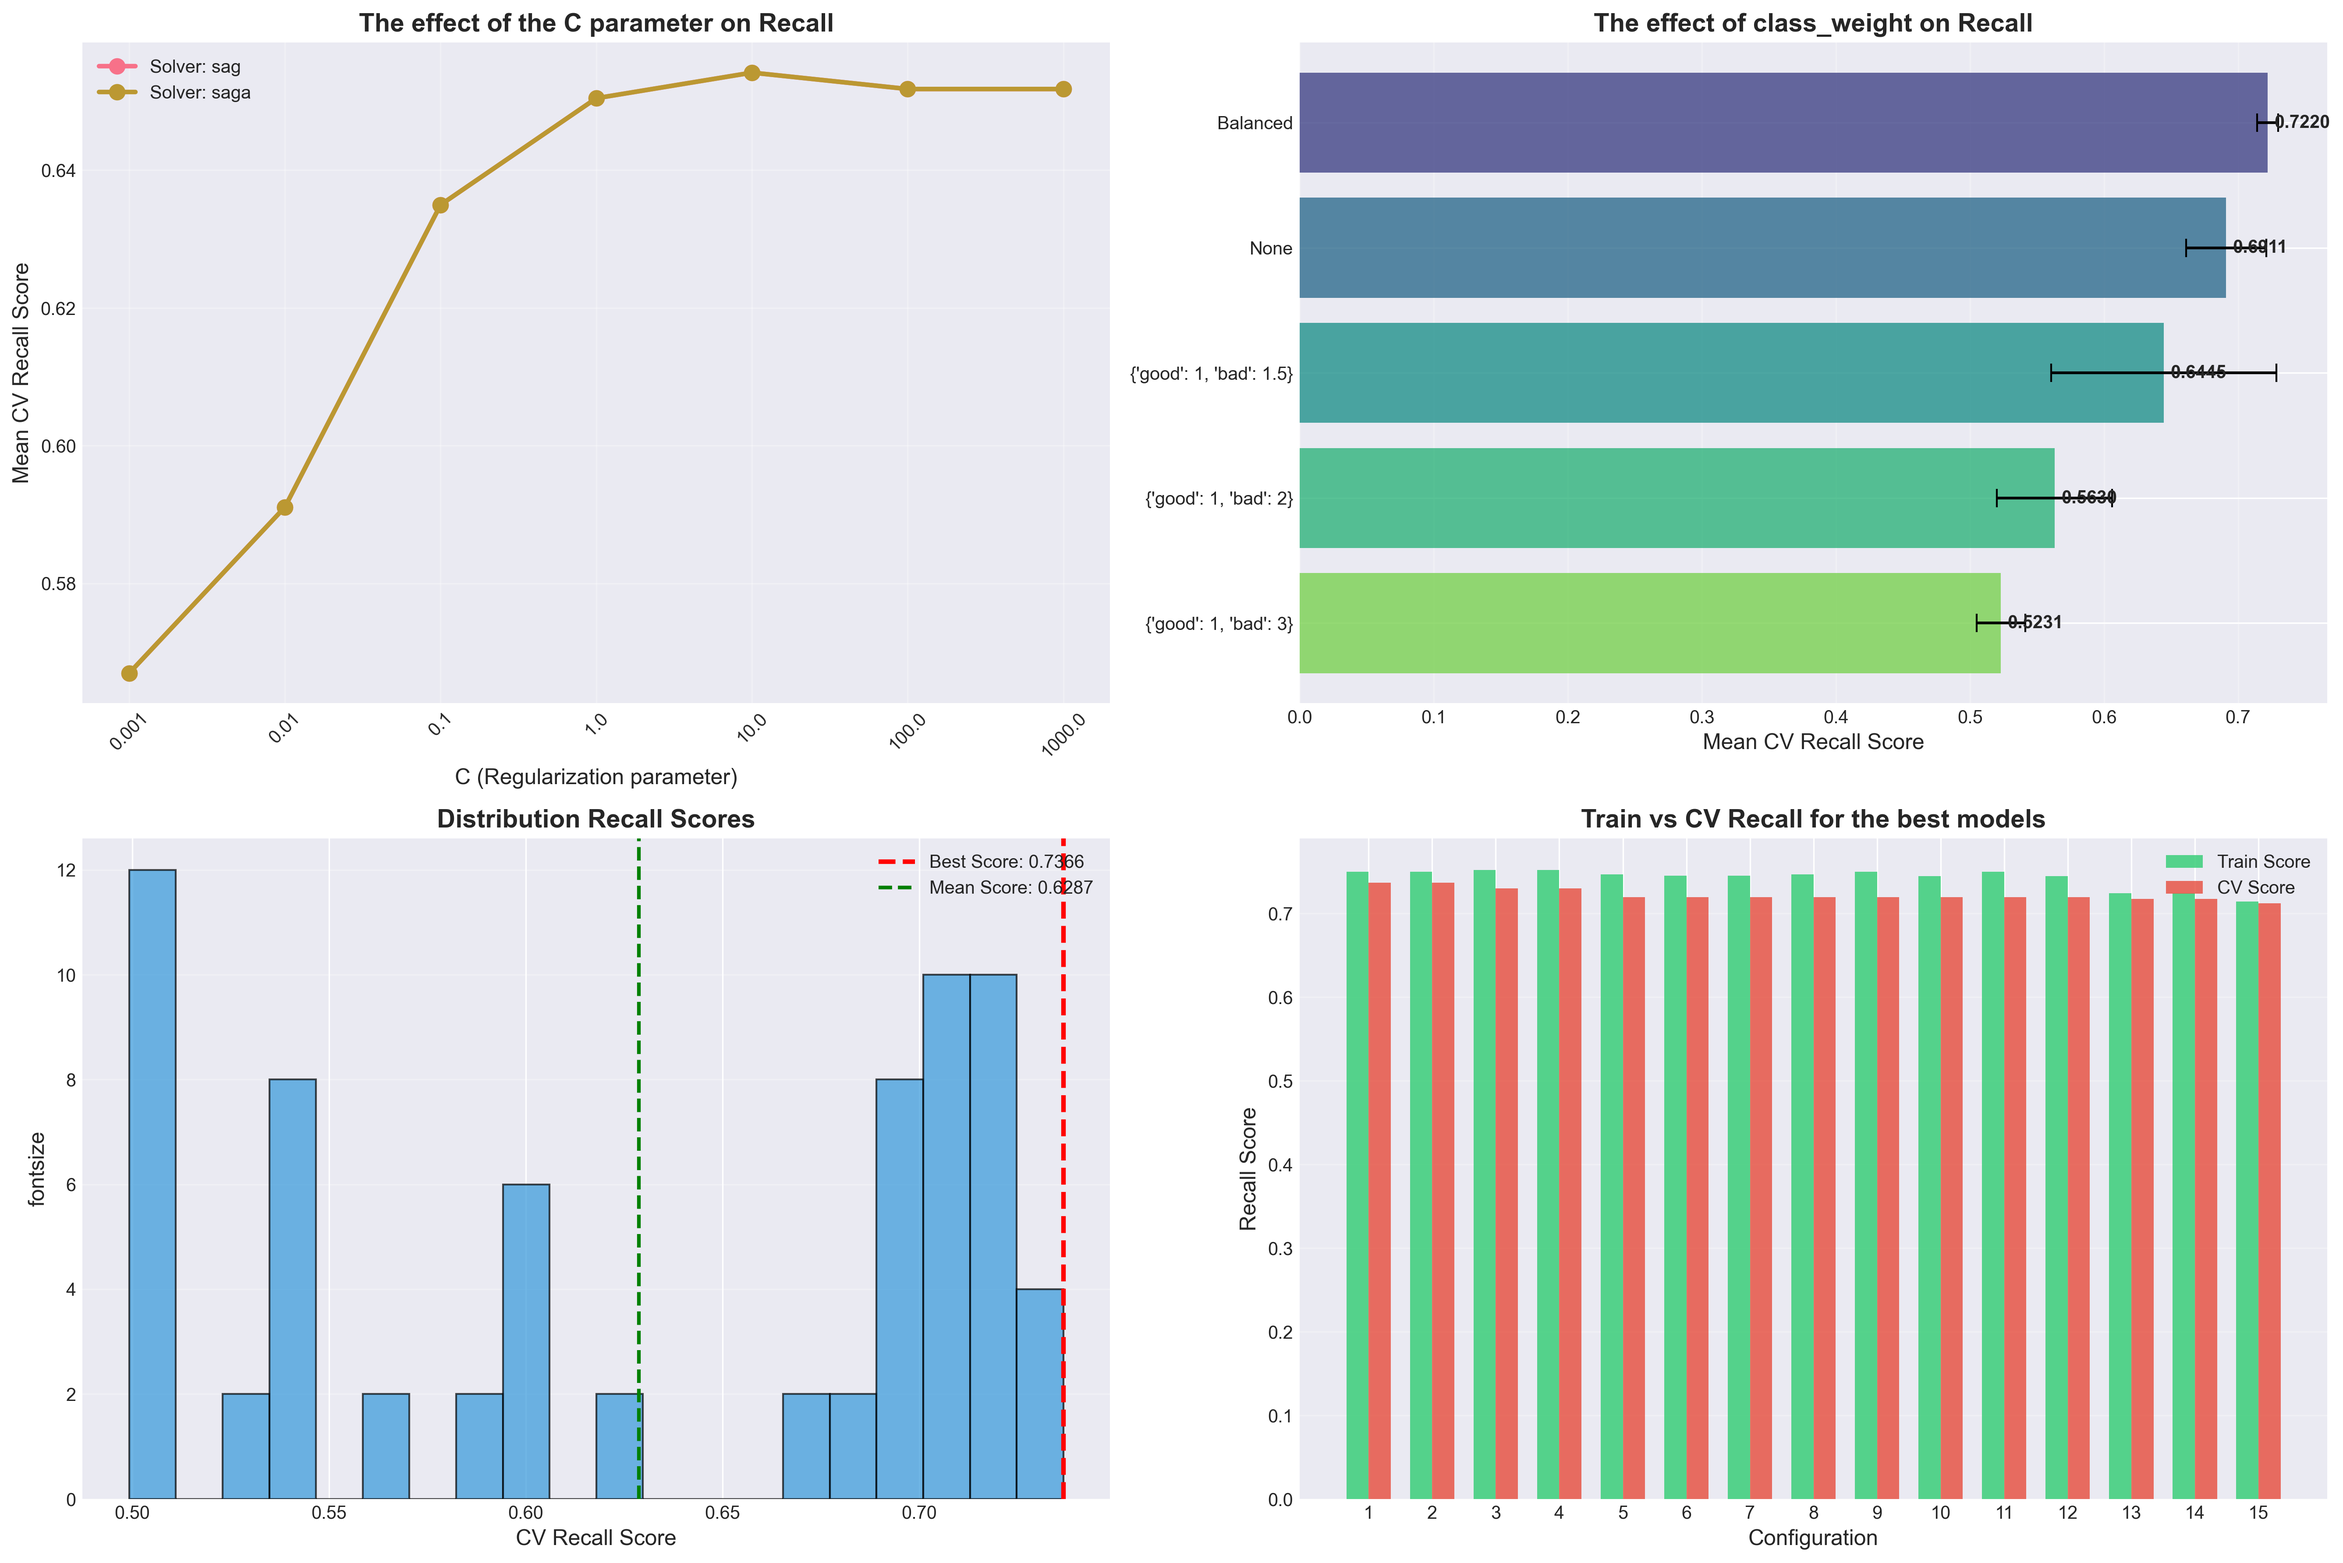
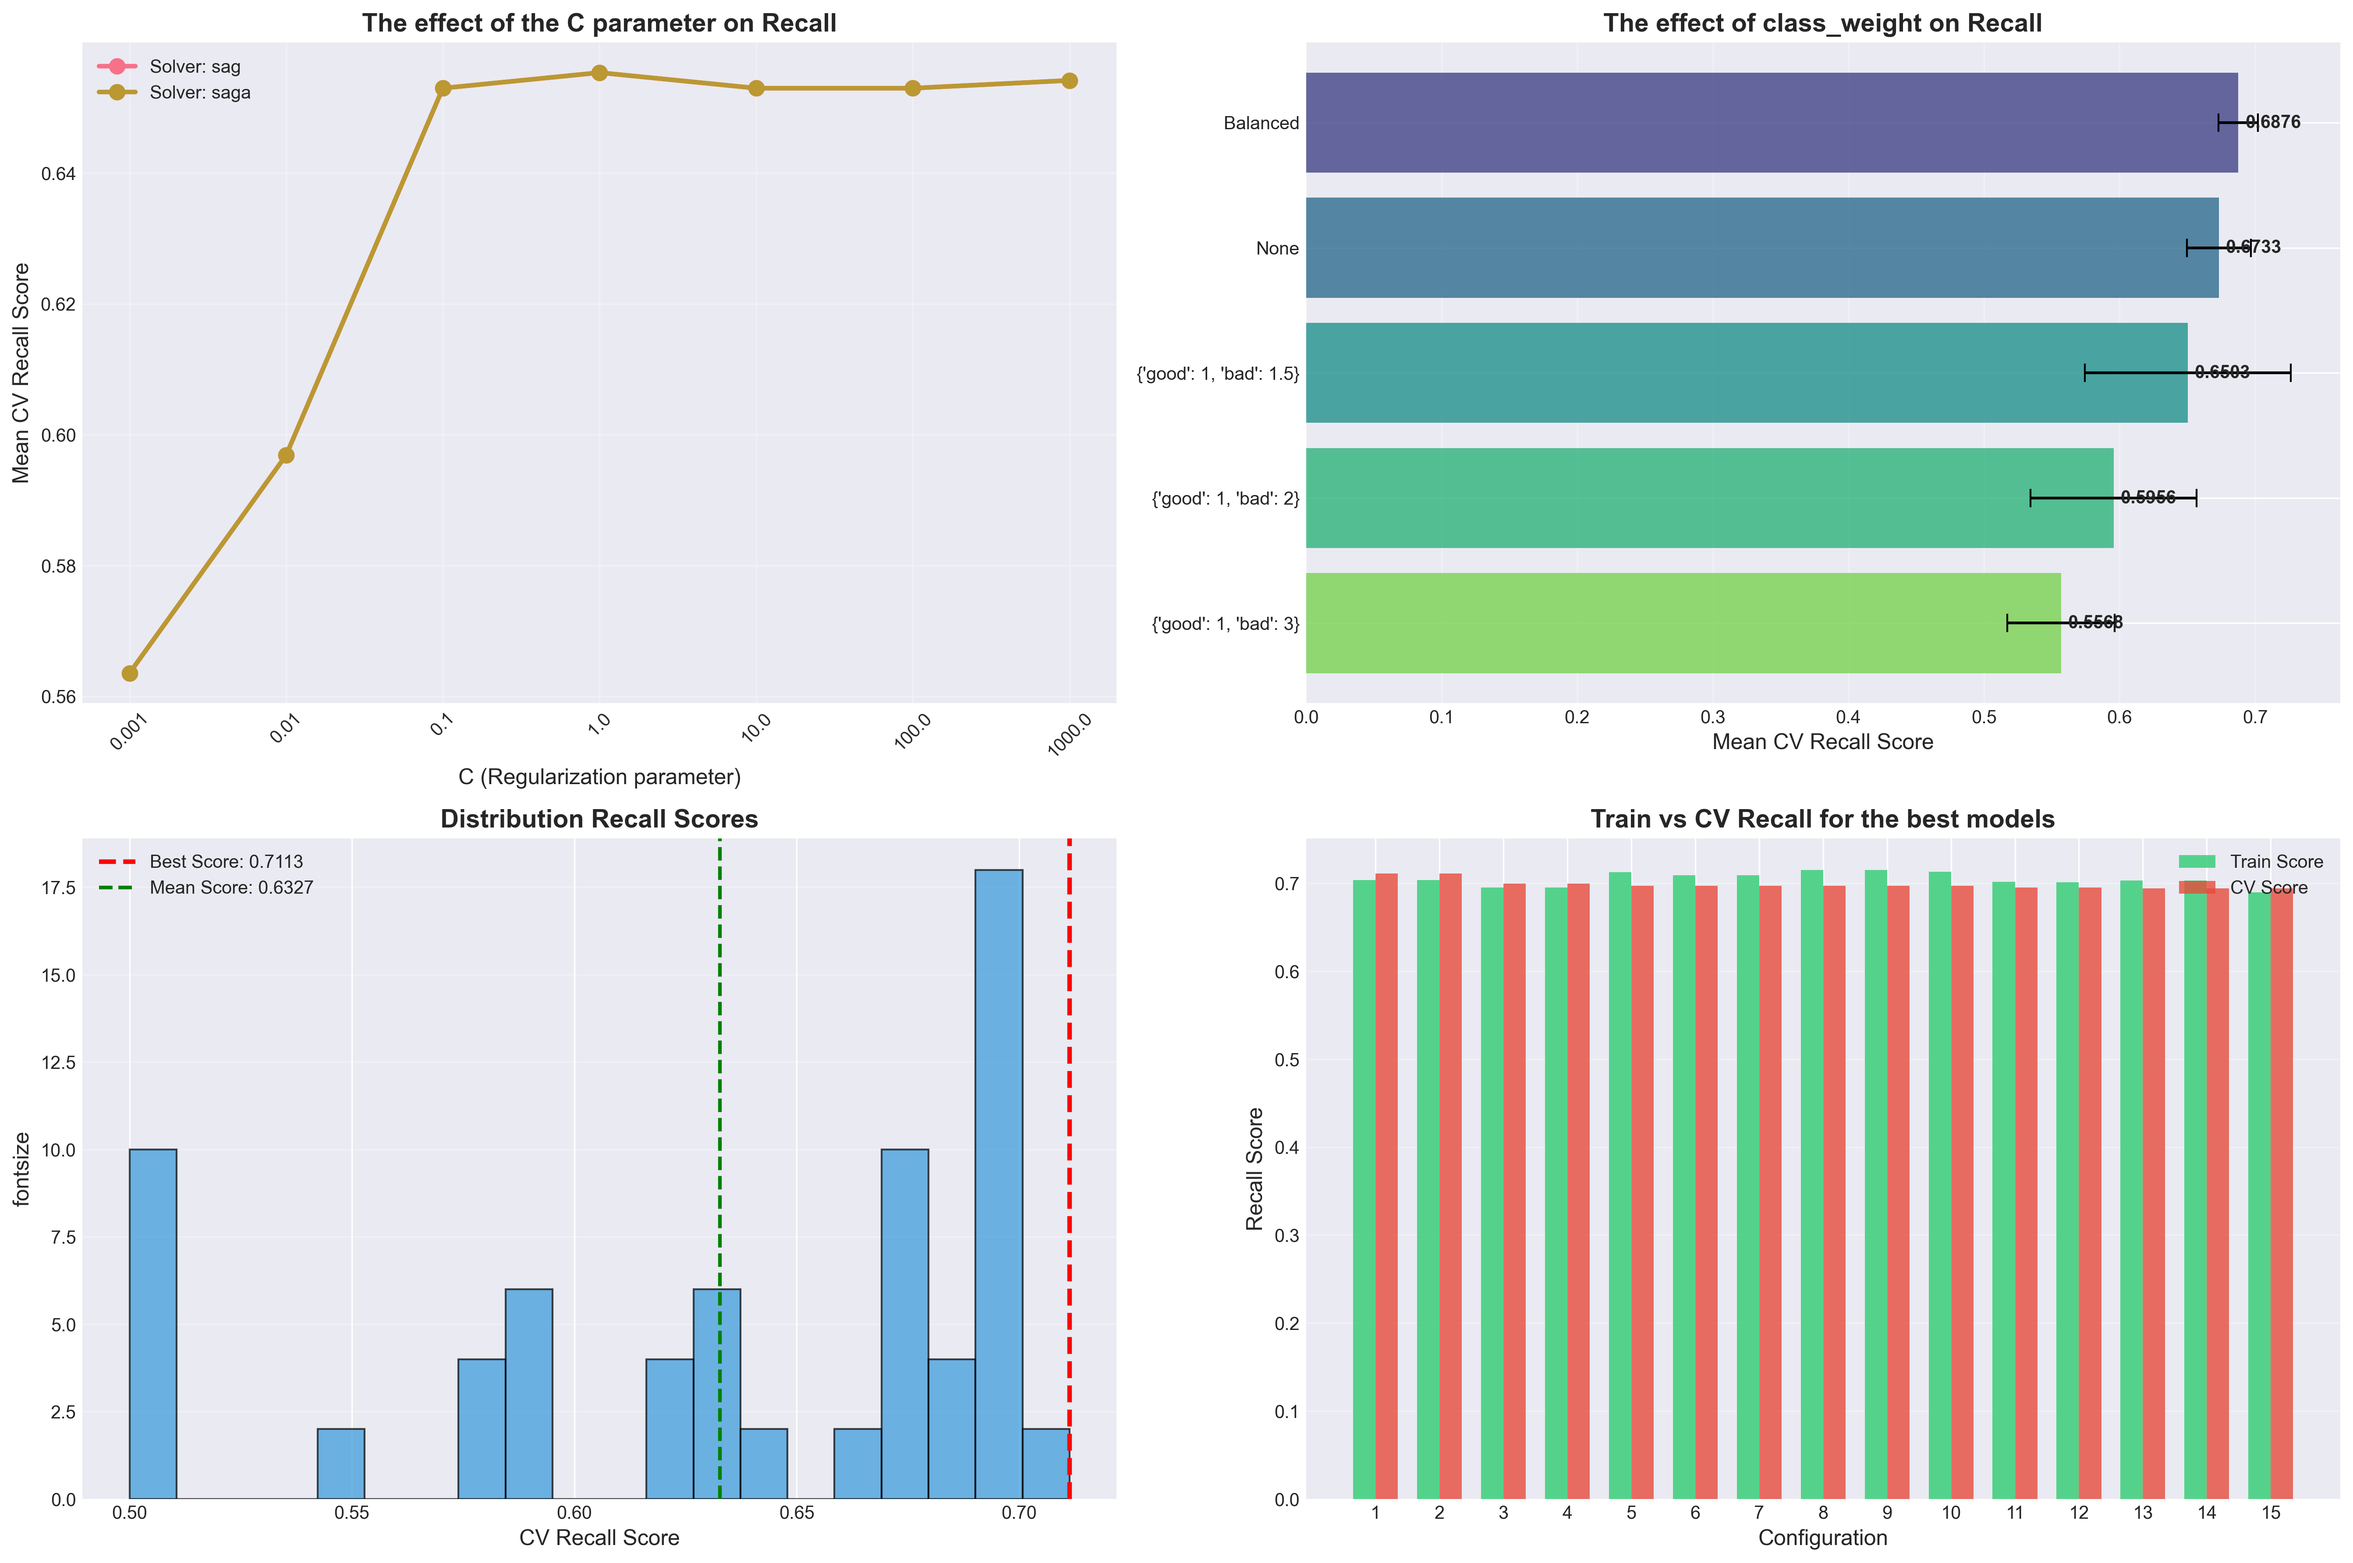
fix bug with dependence bad posture prediction from the deviation side

diff --git a/app/services/ml_service.py b/app/services/ml_service.py
@@ -36,14 +36,14 @@ class MLService:
 
     def analyze(self, request: ModelAnalysisRequest) -> ModelAnalysisResponse:
         features_dict = request.features.model_dump()
+        ANGLE_KEYS = {'shoulder_line_angle_deg', 'head_tilt_deg'}
 
         feature_vector = np.array([
-            features_dict.get(key, 0.0)
+            (abs(features_dict.get(key, 0.0)) if key in ANGLE_KEYS else features_dict.get(key, 0.0))
             for key in self.FEATURE_ORDER
         ]).reshape(1, -1)
 
         X_scaled = self.scaler.transform(feature_vector)
-
         probabilities = self.model.predict_proba(X_scaled)
 
         bad_prob = float(probabilities[0][0])

diff --git a/app/ml_training/training_of_classifier_model.py b/app/ml_training/training_of_classifier_model.py
@@ -31,6 +31,12 @@ print(data.head())
 print(data.isnull().sum())
 
 data = data.dropna()
+
+angle_cols = ['shoulder_line_angle_deg', 'head_tilt_deg']
+data[angle_cols] = data[angle_cols].abs()
+y = data["label"]
+X = data.drop(["image_name", "label"], axis=1).values
+
 print(f"\nThe size of the data after deleting the NaN: {data.shape}")
 
 print("\nClass distribution:")
